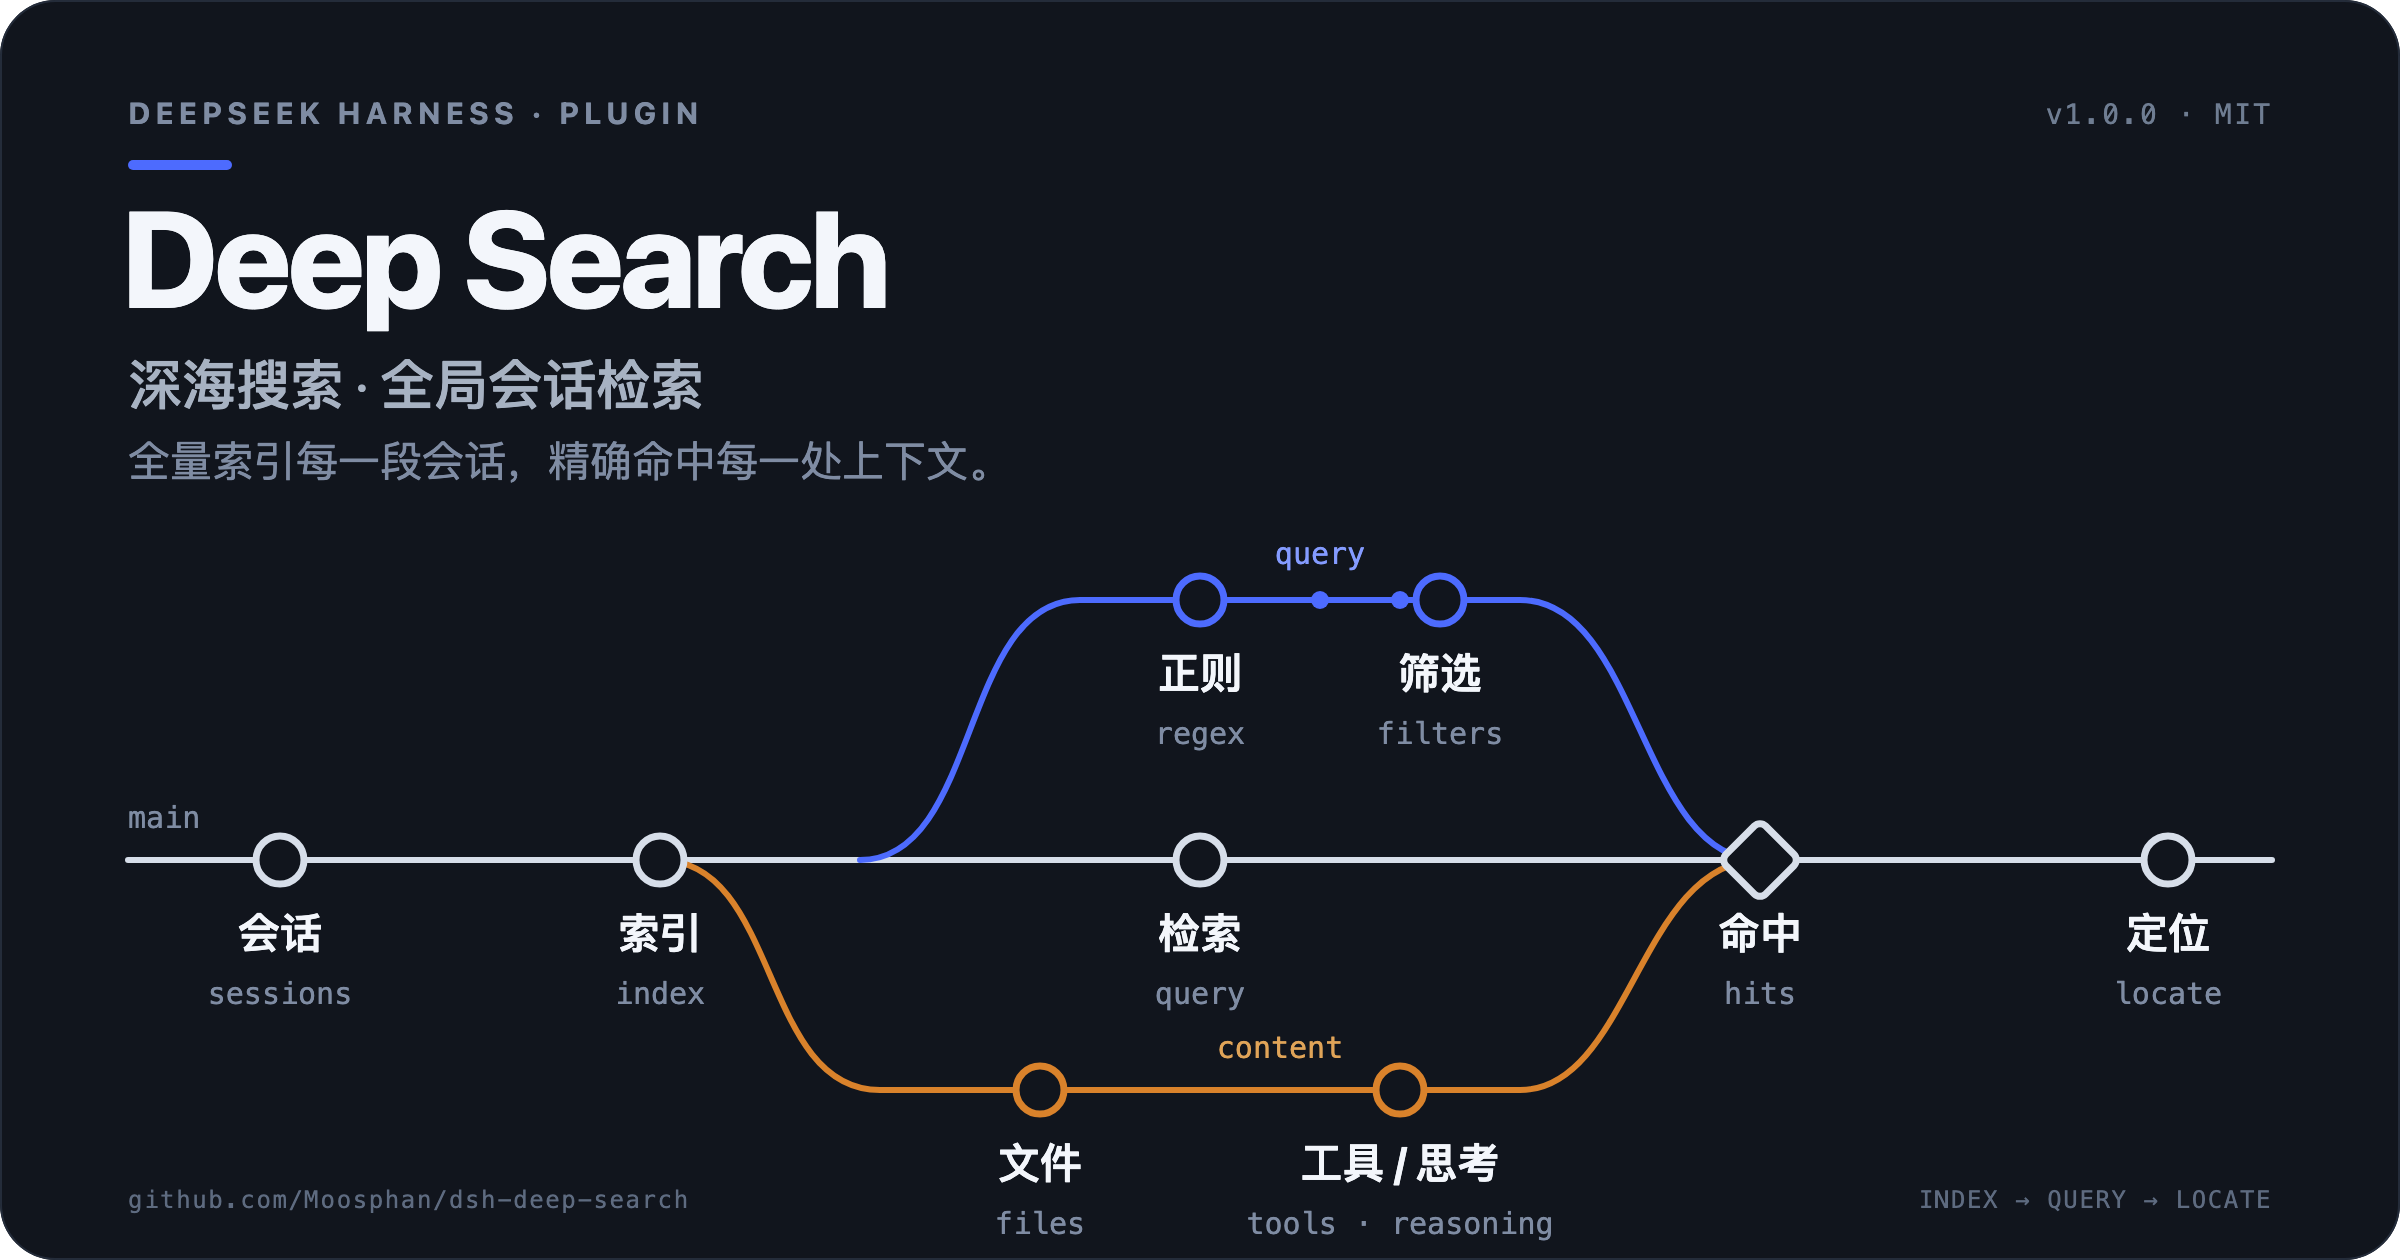
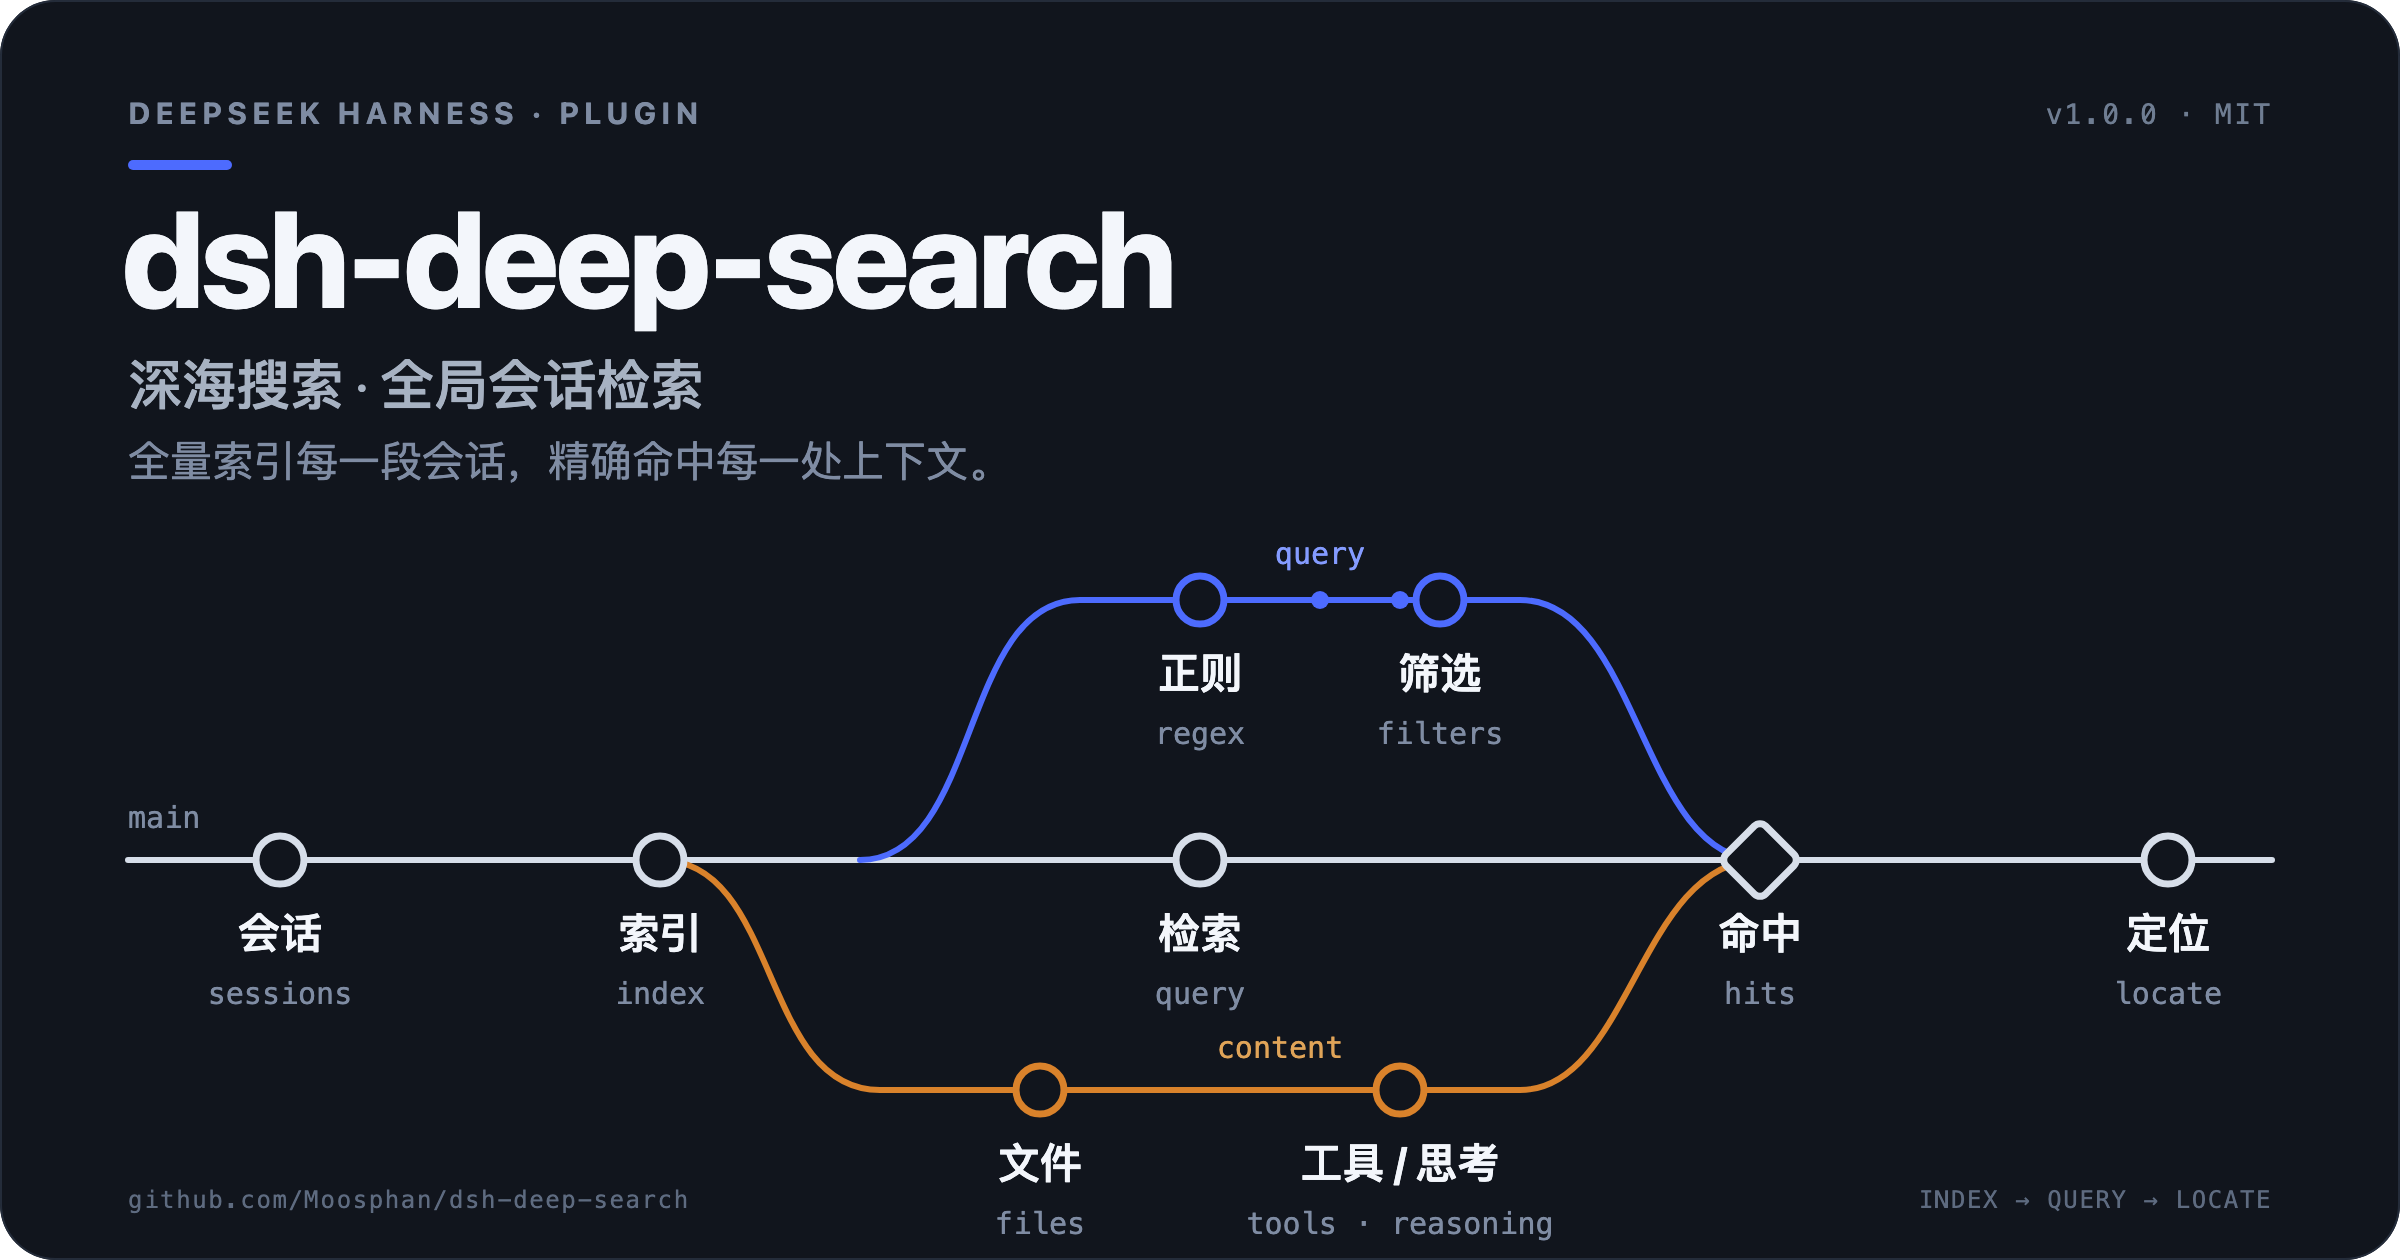
docs: use dsh-deep-search brand and add English README

Changed region(s): [[0.0312, 0.1548, 0.5, 0.2786]]

diff --git a/client.js b/client.js
@@ -139,8 +139,8 @@ window.__ModuleLoader__.load({
     }
 
     const en = {
-      panel: 'Deep Search',
-      title: 'Deep Search',
+      panel: 'dsh-deep-search',
+      title: 'dsh-deep-search',
       subtitle: 'Index every session. Resolve every hit.',
       placeholder: 'Type a keyword, or switch to regex…',
       keyword: 'Keyword',

diff --git a/README.en.md b/README.en.md
@@ -1,0 +1,142 @@
+<p align="center"><a href="README.md">中文</a> · <strong>English</strong></p>
+
+<p align="center">
+  <img src="docs/hero.en.svg" alt="dsh-deep-search" width="100%" />
+</p>
+
+<h1 align="center">dsh-deep-search</h1>
+
+<p align="center">Global session search for DeepSeek Harness: a local index over every logical session, with keyword/regex search, composable filters, streaming results, and exact jumps.</p>
+
+<p align="center">
+  <a href="https://github.com/Moosphan/dsh-deep-search/releases"><img alt="GitHub release" src="https://img.shields.io/github/v/release/Moosphan/dsh-deep-search?style=flat-square&color=4176e6"></a>
+  <a href="LICENSE"><img alt="License: MIT" src="https://img.shields.io/badge/license-MIT-4176e6?style=flat-square"></a>
+  <a href="https://github.com/Moosphan/dsh-deep-search/actions/workflows/ci.yml"><img alt="CI" src="https://github.com/Moosphan/dsh-deep-search/actions/workflows/ci.yml/badge.svg"></a>
+  <img alt="DeepSeek Harness" src="https://img.shields.io/badge/DeepSeek%20Harness-plugin-0B0E14?style=flat-square">
+  <img alt="Node" src="https://img.shields.io/badge/node-%3E%3D20-339933?style=flat-square&logo=node.js&logoColor=white">
+  <img alt="Platforms" src="https://img.shields.io/badge/platform-macOS%20%7C%20Windows%20%7C%20Linux%20%7C%20Web-555?style=flat-square">
+  <a href="https://github.com/Moosphan/dsh-deep-search/stargazers"><img alt="GitHub stars" src="https://img.shields.io/github/stars/Moosphan/dsh-deep-search?style=flat-square&color=4176e6"></a>
+</p>
+
+---
+
+## Background
+
+DSH session history grows continuously, while native search is centered on titles and the current session. `dsh-deep-search` builds a local retrieval index over every logical session, supports composable filters and streaming results, and resolves each hit back to its original turn or tool call.
+
+## Features
+
+| Capability | Description |
+| --- | --- |
+| Full index | Reads every logical session through the Host `sessionQuery`, preferring live state and falling back to persisted logs. |
+| Keyword / regex | Literal and JavaScript regex modes; unsafe backtracking patterns are rejected before matching, with a 3.2s soft deadline per search. |
+| Composable filters | Time, workspace, ask/AI, body/file/tool/output/reasoning/attachment/summary, file type, extension, sort, case, whole word, and title. |
+| Location labels | Each hit is labeled `Ask` / `Answer` / `Execute` / `Reasoning` / `Title`, with content type, turn, time, and path. |
+| File-first search | Attachments, tool-call paths, and prose paths become first-class file documents; file-type filters also match files referenced inside body text or tool calls. |
+| Newest first | Scans sessions by update time by default and orders hits within a group newest first; `Relevance` scores the full set before streaming. |
+| Streaming | `/deep-search/api` streams `meta → groups → done` as NDJSON, so the first results render before the full search completes. |
+| Exact jump | Prefers the host turn rail (loading unseen turns through `loadThrough`), then resolves by call ID or turn; collapsed execution steps expand automatically. |
+| Position memory | Selected hit, scroll position, query, and filters persist across session switches. |
+| Retry | Transient `Failed to fetch` errors from Host reloads or connection churn retry three times with backoff. |
+
+## Screenshots
+
+<table>
+  <tr>
+    <td width="50%"><img src="docs/shot-main.png" alt="Main search" width="100%"/><br/><sub>Session groups, location labels, and full-text preview.</sub></td>
+    <td width="50%"><img src="docs/shot-regex.png" alt="Regex search" width="100%"/><br/><sub>Regex and file-type filters combined.</sub></td>
+  </tr>
+  <tr>
+    <td><img src="docs/shot-filters.png" alt="File-type filters" width="100%"/><br/><sub>File type and extension filters.</sub></td>
+    <td><img src="docs/shot-content.png" alt="Content filters" width="100%"/><br/><sub>Body, file, tool, and reasoning content toggles.</sub></td>
+  </tr>
+</table>
+
+<sub>UI shown in Chinese; the panel follows the DSH locale.</sub>
+
+## Installation
+
+**Plugin marketplace**: DSH → Plugins → Marketplace → search `dsh-deep-search` or `深海搜索` → Install → restart DSH.
+
+**CLI**:
+
+```bash
+dsh plugin add dsh-deep-search
+dsh plugin --profile desktop add dsh-deep-search
+```
+
+**From source**:
+
+```bash
+git clone https://github.com/Moosphan/dsh-deep-search.git
+dsh plugin add link:"$PWD/dsh-deep-search"
+dsh plugin --profile desktop add link:"$PWD/dsh-deep-search"
+```
+
+The Host half is loaded when the DSH process starts; fully quit and reopen DSH after installation.
+
+## Usage
+
+1. Open **dsh-deep-search** in the left sidebar, above **Plugins**.
+2. Enter a keyword or switch to regex; `Enter` in the input only starts a search and never jumps.
+3. Double-click a hit, click the `→` button on its row, or use **Open session** in the preview.
+4. Narrow results with the filter bar: location, time, content, file type, workspace, and sort.
+5. Sticky session headers are section labels only and do not respond to clicks.
+
+Keyboard: `↑` / `↓` selects a hit, double-click or `→` opens it, `Esc` clears the selection and returns to the conversation.
+
+### Filter semantics
+
+| Filter | Semantics |
+| --- | --- |
+| Location | `Ask` = user message; `Answer` = assistant text; `Execute` = tool calls/output; `Reasoning` = reasoning; `Title` = session title. |
+| File type | Matches when the hit references a file of that type; a standalone file row is not required. |
+| Time | Filters by event time, not session creation time. |
+| Workspace | Exact match on the session `cwd`. |
+| Sort | `Newest` by default; `Relevance` combines hit count, content-type weight, and recency. |
+
+## Performance & Architecture
+
+<p align="center"><img src="docs/architecture.en.svg" alt="dsh-deep-search runtime architecture" width="100%"/></p>
+
+- **Index**: one zstd cache per session; unchanged revisions are reused, live sessions are re-read incrementally by event count.
+- **Build**: large sessions yield to the event loop every 2,000 events so the Host HTTP server stays responsive; first cold start reads sessions serially and reports progress.
+- **Cache**: `~/.dsh/plugin-data/deep-search/index/`, directories `0700` and files `0600`; searchable text only.
+- **Limits**: 8,000 characters per document, 5,000 per tool output; 30 hits per session and 48 groups globally; 3.2s soft deadline per search.
+- **Typical performance**: 20–80 ms for 40–100 sessions and around 100k documents on Apple Silicon.
+
+## Security & Privacy
+
+- The Host reads only local session logs; no external requests, telemetry, or cloud index.
+- `/deep-search/api` accepts loopback requests only and reuses the host `connection.requestRejection` cookie check.
+- The cache contains searchable text only, never attachment binaries; delete `~/.dsh/plugin-data/deep-search` to remove it.
+- The index contains session bodies and tool output; treat the DSH home directory as sensitive local data.
+
+## Compatibility
+
+- DeepSeek Harness Desktop / Web, Node.js >= 20.
+- Subagent logs that are not visible through `sessionQuery.listSessions()` are not indexed.
+- Jumping requires the session window to load the relevant history; extreme virtualization can fall back to turn-level positioning.
+- Regex uses JavaScript `RegExp`; `(?<name>)` works, unsafe backtracking patterns are rejected.
+
+## Development
+
+```bash
+npm test
+npm run check
+```
+
+```text
+index.js            Host: index, parsing, filters, /deep-search/api, NDJSON streaming
+client.js           Client: sidebar entry, panel, filters, preview, jump
+locale/*.json       Marketplace metadata
+cordis.patch.yml    Bundle insert row
+docs/               Hero, architecture, panel screenshots, and mock sources
+test/               Headless Host and Client tests
+```
+
+No build step. Plain ESM JavaScript with no runtime dependencies.
+
+## License
+
+[MIT](LICENSE) © 2026 Moosphan

diff --git a/docs/taglines.md b/docs/taglines.md
@@ -1,4 +1,4 @@
-# Deep Search · 宣传语备选
+# dsh-deep-search · 宣传语备选
 
 筛选标准：不使用「深海 / 捞 / 潜」等比喻；直接描述索引、查询、定位三个技术动作；中文 12–22 字，适合 banner、README 首屏与插件面板副标题。
 

diff --git a/CHANGELOG.md b/CHANGELOG.md
@@ -2,7 +2,7 @@
 
 ## 1.0.0 — 2026-11-13
 
-首个公开版本，产品定名 **Deep Search · 深海搜索**。
+首个公开版本，产品定名 **dsh-deep-search · 深海搜索**。
 
 ### 功能
 
